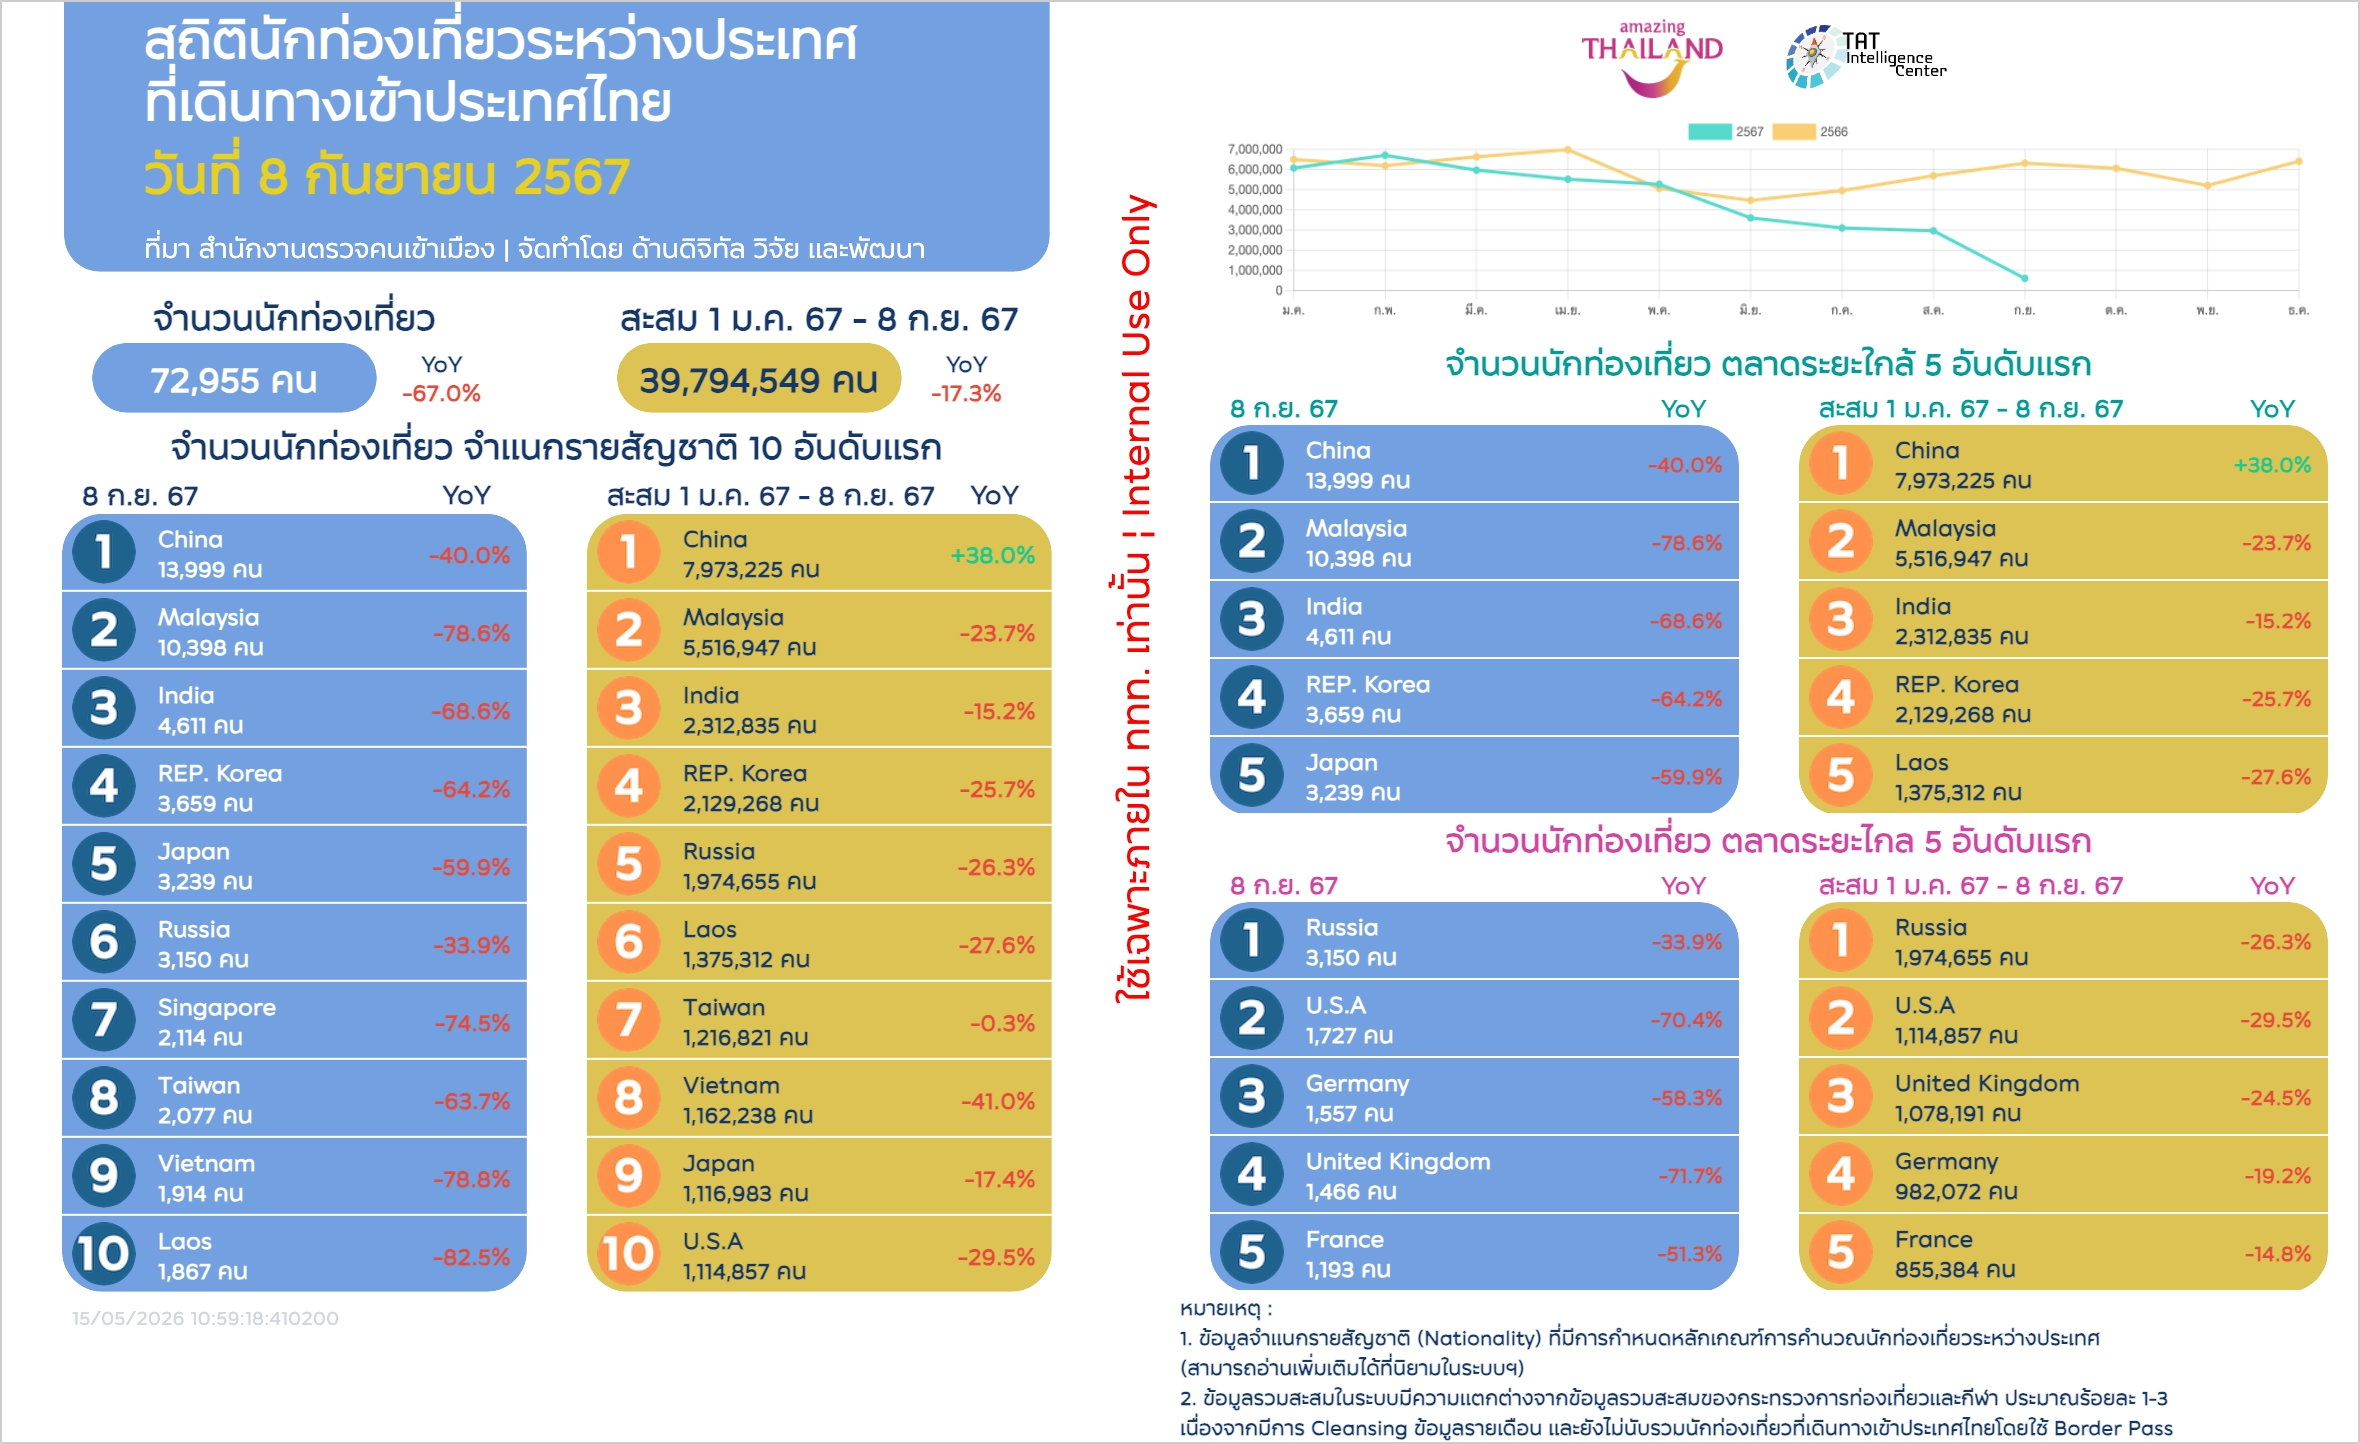
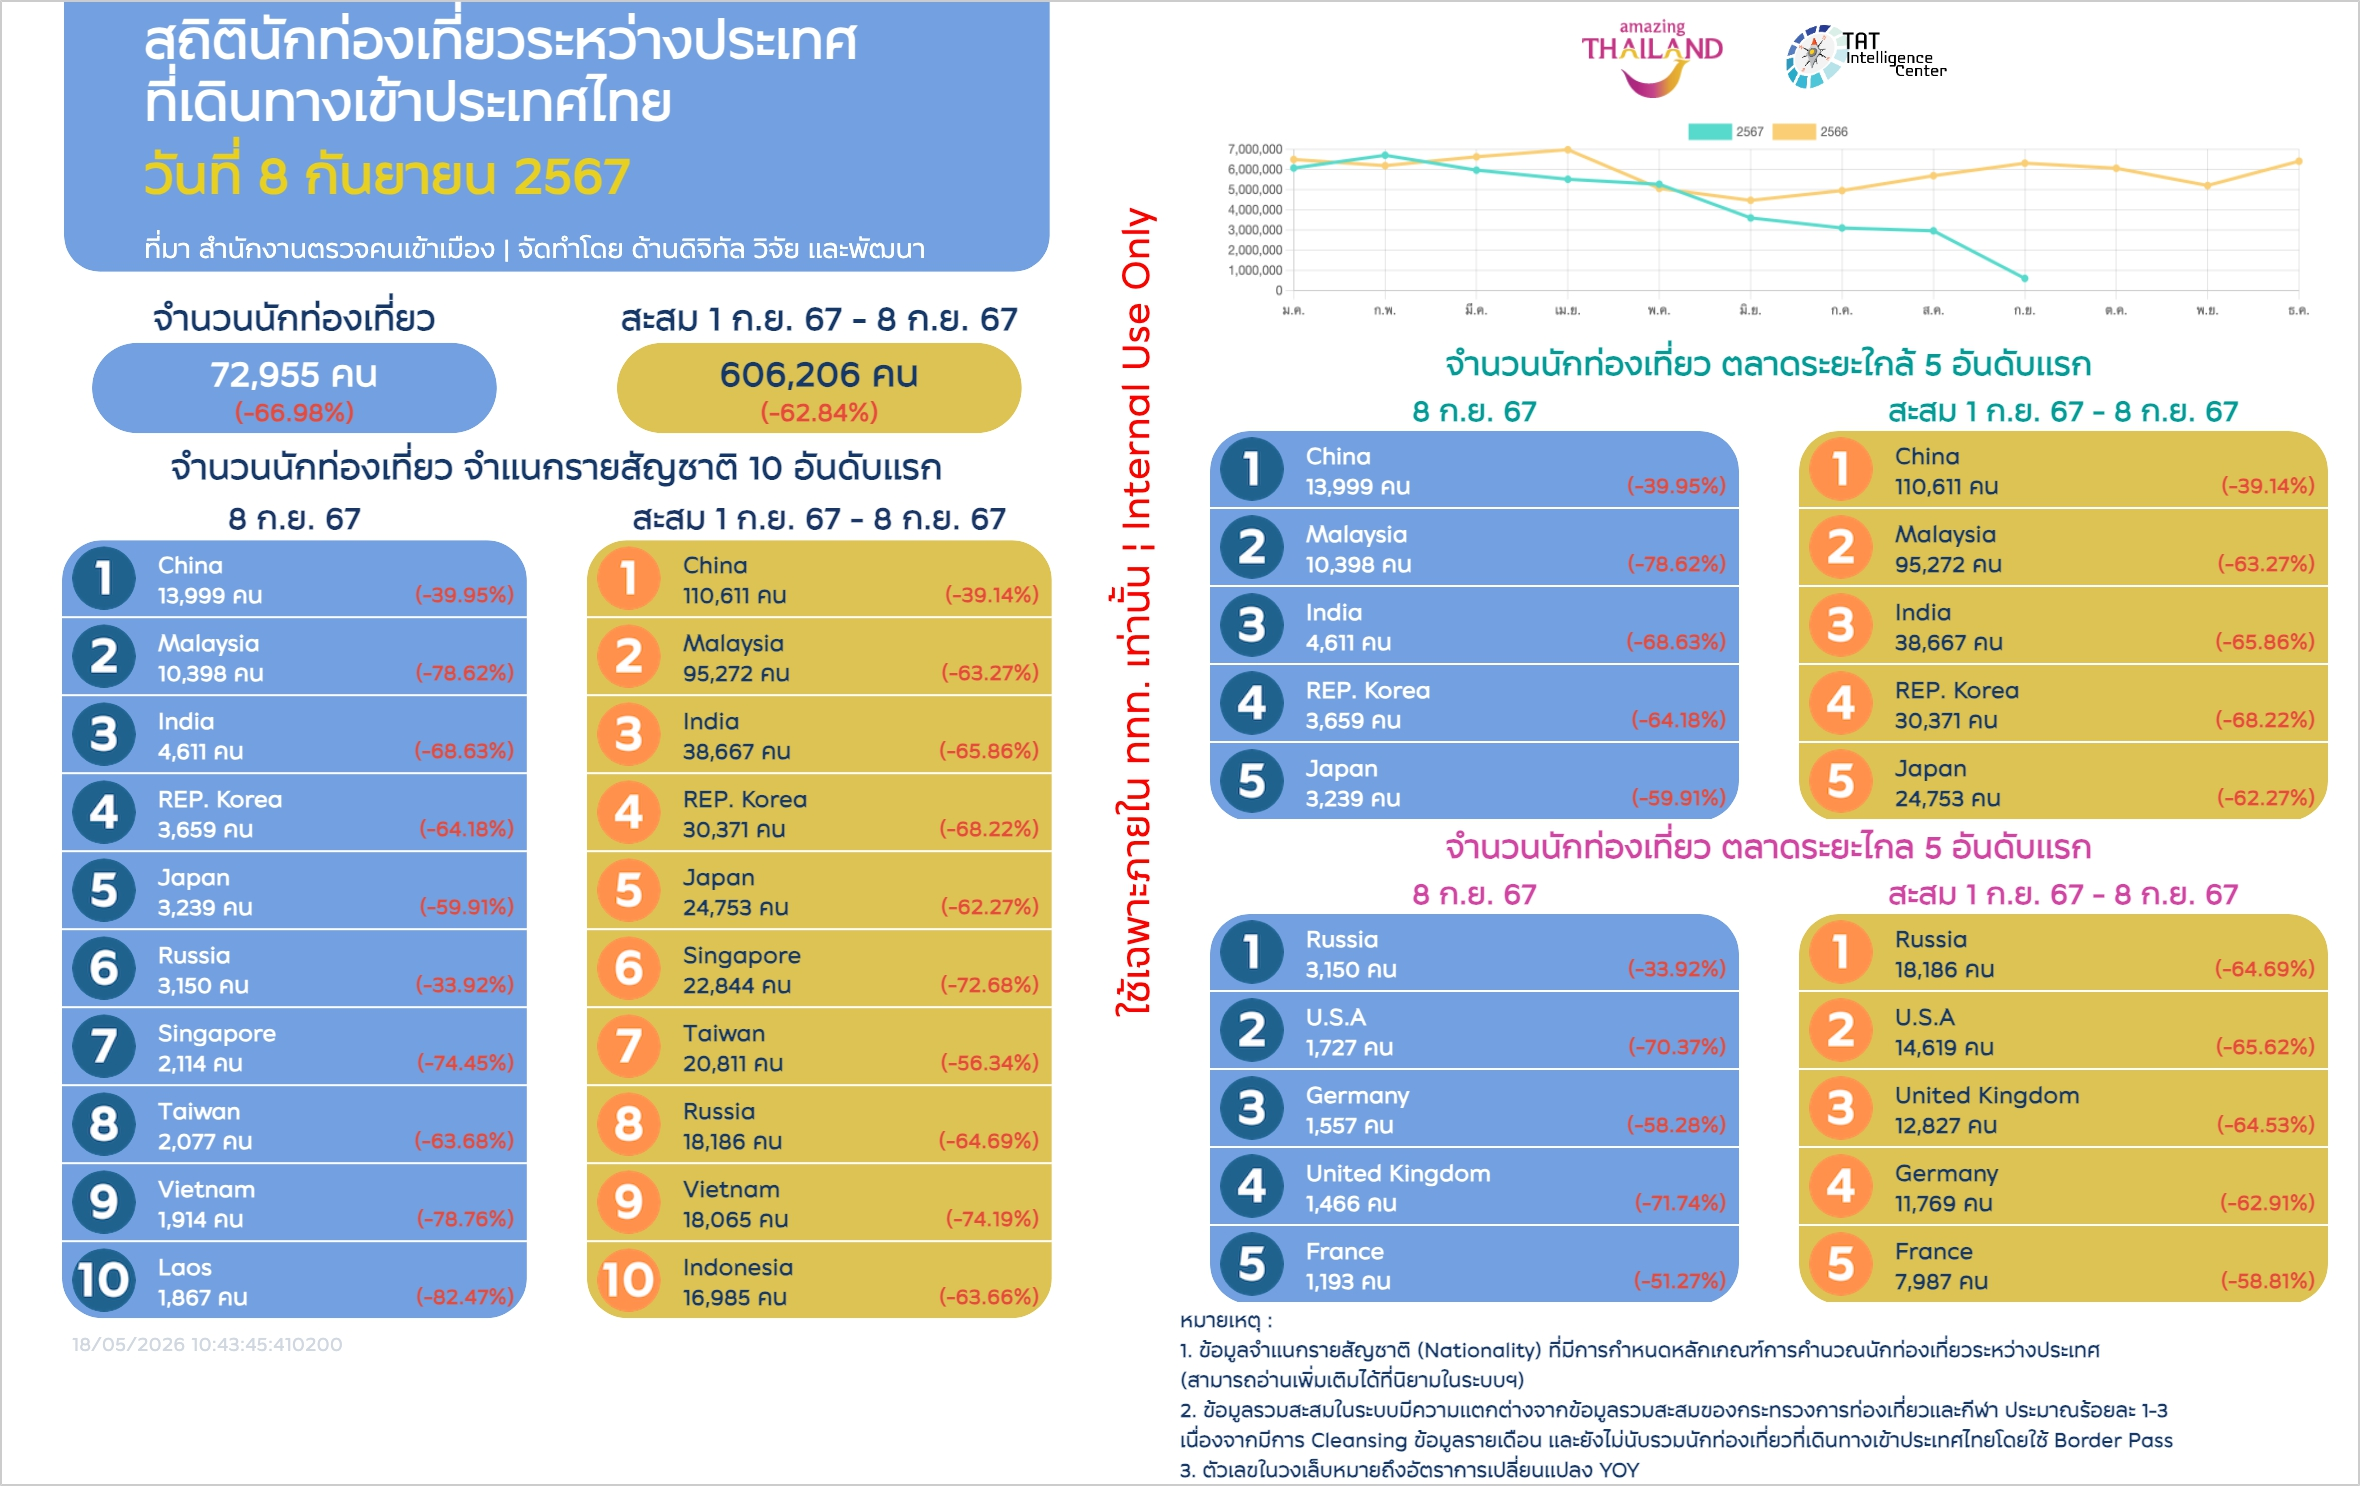
update dashboard

diff --git a/modules/Main/Views/export/dashboard_view.php b/modules/Main/Views/export/dashboard_view.php
@@ -501,9 +501,6 @@ if (!function_exists('yoyInline')) {
 										</div>
 									</div>
 								</div>
-								<div class="col-lg-12" style="padding: 2px 10px 0;">
-									<p class="m-0" style="font-size:10px;color:#163868;font-style:italic;">หมายเหตุ : ตัวเลขในวงเล็บหมายถึงอัตราการเปลี่ยนแปลง YOY</p>
-								</div>
 								<div class="col-lg-12">
 									<p class="m-0" style="opacity: 0.5;font-size:10px;color: #a1afc2;padding: 5px;"><?php echo date('d/m/Y H:i:s:') . $session->get('org_id');; ?></p>
 								</div>
@@ -695,7 +692,8 @@ if (!function_exists('yoyInline')) {
 						<div class="col-lg-12 " style="font-weight: bold; color: #fff; font-size:10px; color: #163868; padding: 0;">
 							หมายเหตุ : <br>
 							1. ข้อมูลจำแนกรายสัญชาติ (Nationality) ที่มีการกำหนดหลักเกณฑ์การคำนวณนักท่องเที่ยวระหว่างประเทศ <br>(สามารถอ่านเพิ่มเติมได้ที่นิยามในระบบฯ) <br>
-							2. ข้อมูลรวมสะสมในระบบมีความแตกต่างจากข้อมูลรวมสะสมของกระทรวงการท่องเที่ยวและกีฬา ประมาณร้อยละ 1-3 <br>เนื่องจากมีการ Cleansing ข้อมูลรายเดือน และยังไม่นับรวมนักท่องเที่ยวที่เดินทางเข้าประเทศไทยโดยใช้ Border Pass
+							2. ข้อมูลรวมสะสมในระบบมีความแตกต่างจากข้อมูลรวมสะสมของกระทรวงการท่องเที่ยวและกีฬา ประมาณร้อยละ 1-3 <br>เนื่องจากมีการ Cleansing ข้อมูลรายเดือน และยังไม่นับรวมนักท่องเที่ยวที่เดินทางเข้าประเทศไทยโดยใช้ Border Pass <br>
+								3. ตัวเลขในวงเล็บหมายถึงอัตราการเปลี่ยนแปลง YOY
 						</div>
 					</div>
 				</div>
@@ -747,13 +745,17 @@ if (!function_exists('yoyInline')) {
 		$.each(chart_array, function(key, value) {
 			var container = document.getElementById("htmltoimage_" + value);
 			html2canvas(container, {
-				allowTaint: true
+				scale: 2,
+				useCORS: true,
+				allowTaint: true,
+				backgroundColor: '#ffffff',
+				logging: false
 			}).then(function(canvas) {
 
 				var link = document.createElement("a");
 				document.body.appendChild(link);
 				link.download = "<?php echo $to_date; ?>" + value + ".png";
-				link.href = canvas.toDataURL();
+				link.href = canvas.toDataURL('image/png', 1.0);
 				link.target = '_blank';
 				// console.log(link);
 				var dataURL = link.href;

diff --git a/modules/Main/Views/export/dashboard_v2.php b/modules/Main/Views/export/dashboard_v2.php
@@ -639,7 +639,8 @@ if(!empty($SumMarketDate_past['Long'])){
 				<p style="line-height: 15px;font-weight: bold; padding-top:2px; color: #fff; font-size:10px; color: #163868;">
 					หมายเหตุ : <br>
 					1. ข้อมูลจำแนกรายสัญชาติ (Nationality) ที่มีการกำหนดหลักเกณฑ์การคำนวณนักท่องเที่ยวระหว่างประเทศ (สามารถอ่านเพิ่มเติมได้ที่นิยามในระบบฯ) <br>
-					2. ข้อมูลรวมสะสมในระบบมีความแตกต่างจากข้อมูลรวมสะสมของกระทรวงการท่องเที่ยวและกีฬา ประมาณร้อยละ 1-3 เนื่องจากมีการ Cleansing ข้อมูลรายเดือน และยังไม่นับรวมนักท่องเที่ยวที่เดินทางเข้าประเทศไทยโดยใช้ Border Pass
+					2. ข้อมูลรวมสะสมในระบบมีความแตกต่างจากข้อมูลรวมสะสมของกระทรวงการท่องเที่ยวและกีฬา ประมาณร้อยละ 1-3 เนื่องจากมีการ Cleansing ข้อมูลรายเดือน และยังไม่นับรวมนักท่องเที่ยวที่เดินทางเข้าประเทศไทยโดยใช้ Border Pass <br>
+					3. ตัวเลขในวงเล็บหมายถึงอัตราการเปลี่ยนแปลง YOY
 				</p>
 			</div>
 		</div>

diff --git a/modules/Main/Views/export/dashboard.php b/modules/Main/Views/export/dashboard.php
@@ -505,9 +505,6 @@ if (!function_exists('yoyInline')) {
                                 </div>
                             </div>
                         </div>
-                        <div style="padding: 2px 10px 0;">
-                            <p style="margin:0;line-height: 15px;font-weight: bold;font-size:10px;color:#163868;">หมายเหตุ : ตัวเลขในวงเล็บหมายถึงอัตราการเปลี่ยนแปลง YOY</p>
-                        </div>
                     </div>
                 </div>
             </div>
@@ -802,7 +799,8 @@ if (!function_exists('yoyInline')) {
                     (สามารถอ่านเพิ่มเติมได้ที่นิยามในระบบฯ) <br>
                     2. ข้อมูลรวมสะสมในระบบมีความแตกต่างจากข้อมูลรวมสะสมของกระทรวงการท่องเที่ยวและกีฬา ประมาณร้อยละ 1-3
                     เนื่องจากมีการ Cleansing ข้อมูลรายเดือน และยังไม่นับรวมนักท่องเที่ยวที่เดินทางเข้าประเทศไทยโดยใช้
-                    Border Pass
+                    Border Pass <br>
+                    3. ตัวเลขในวงเล็บหมายถึงอัตราการเปลี่ยนแปลง YOY
                 </p>
             </div>
         </div>
